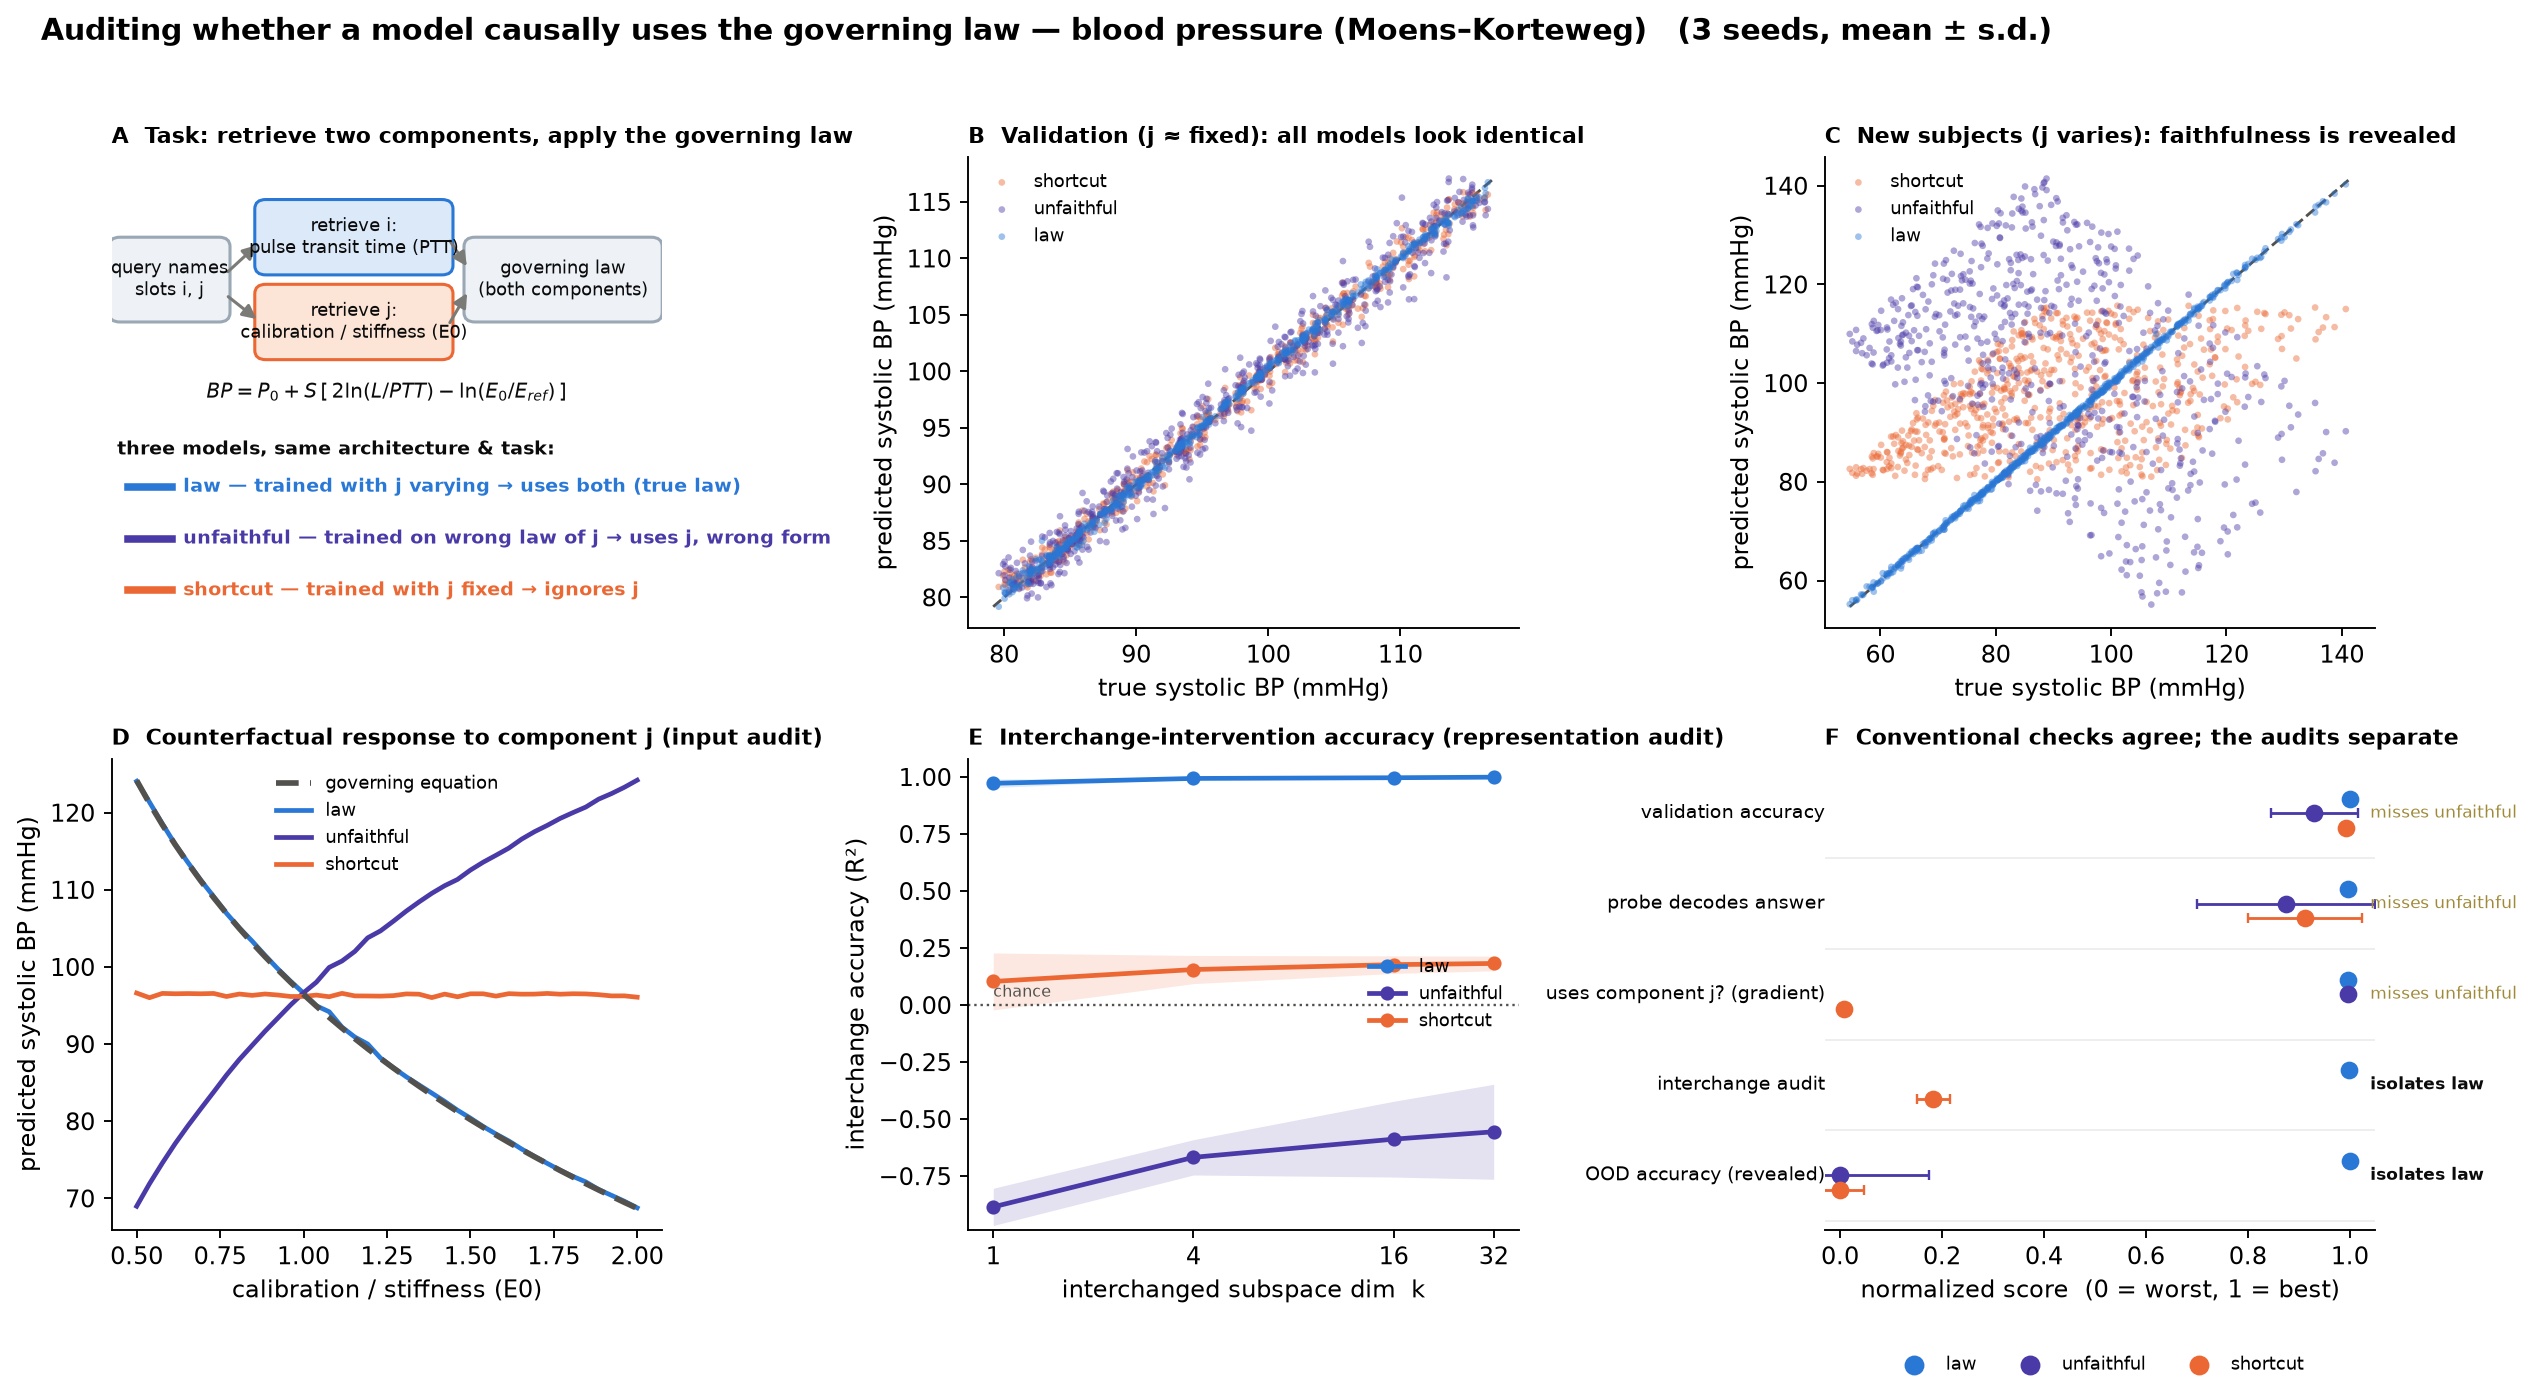
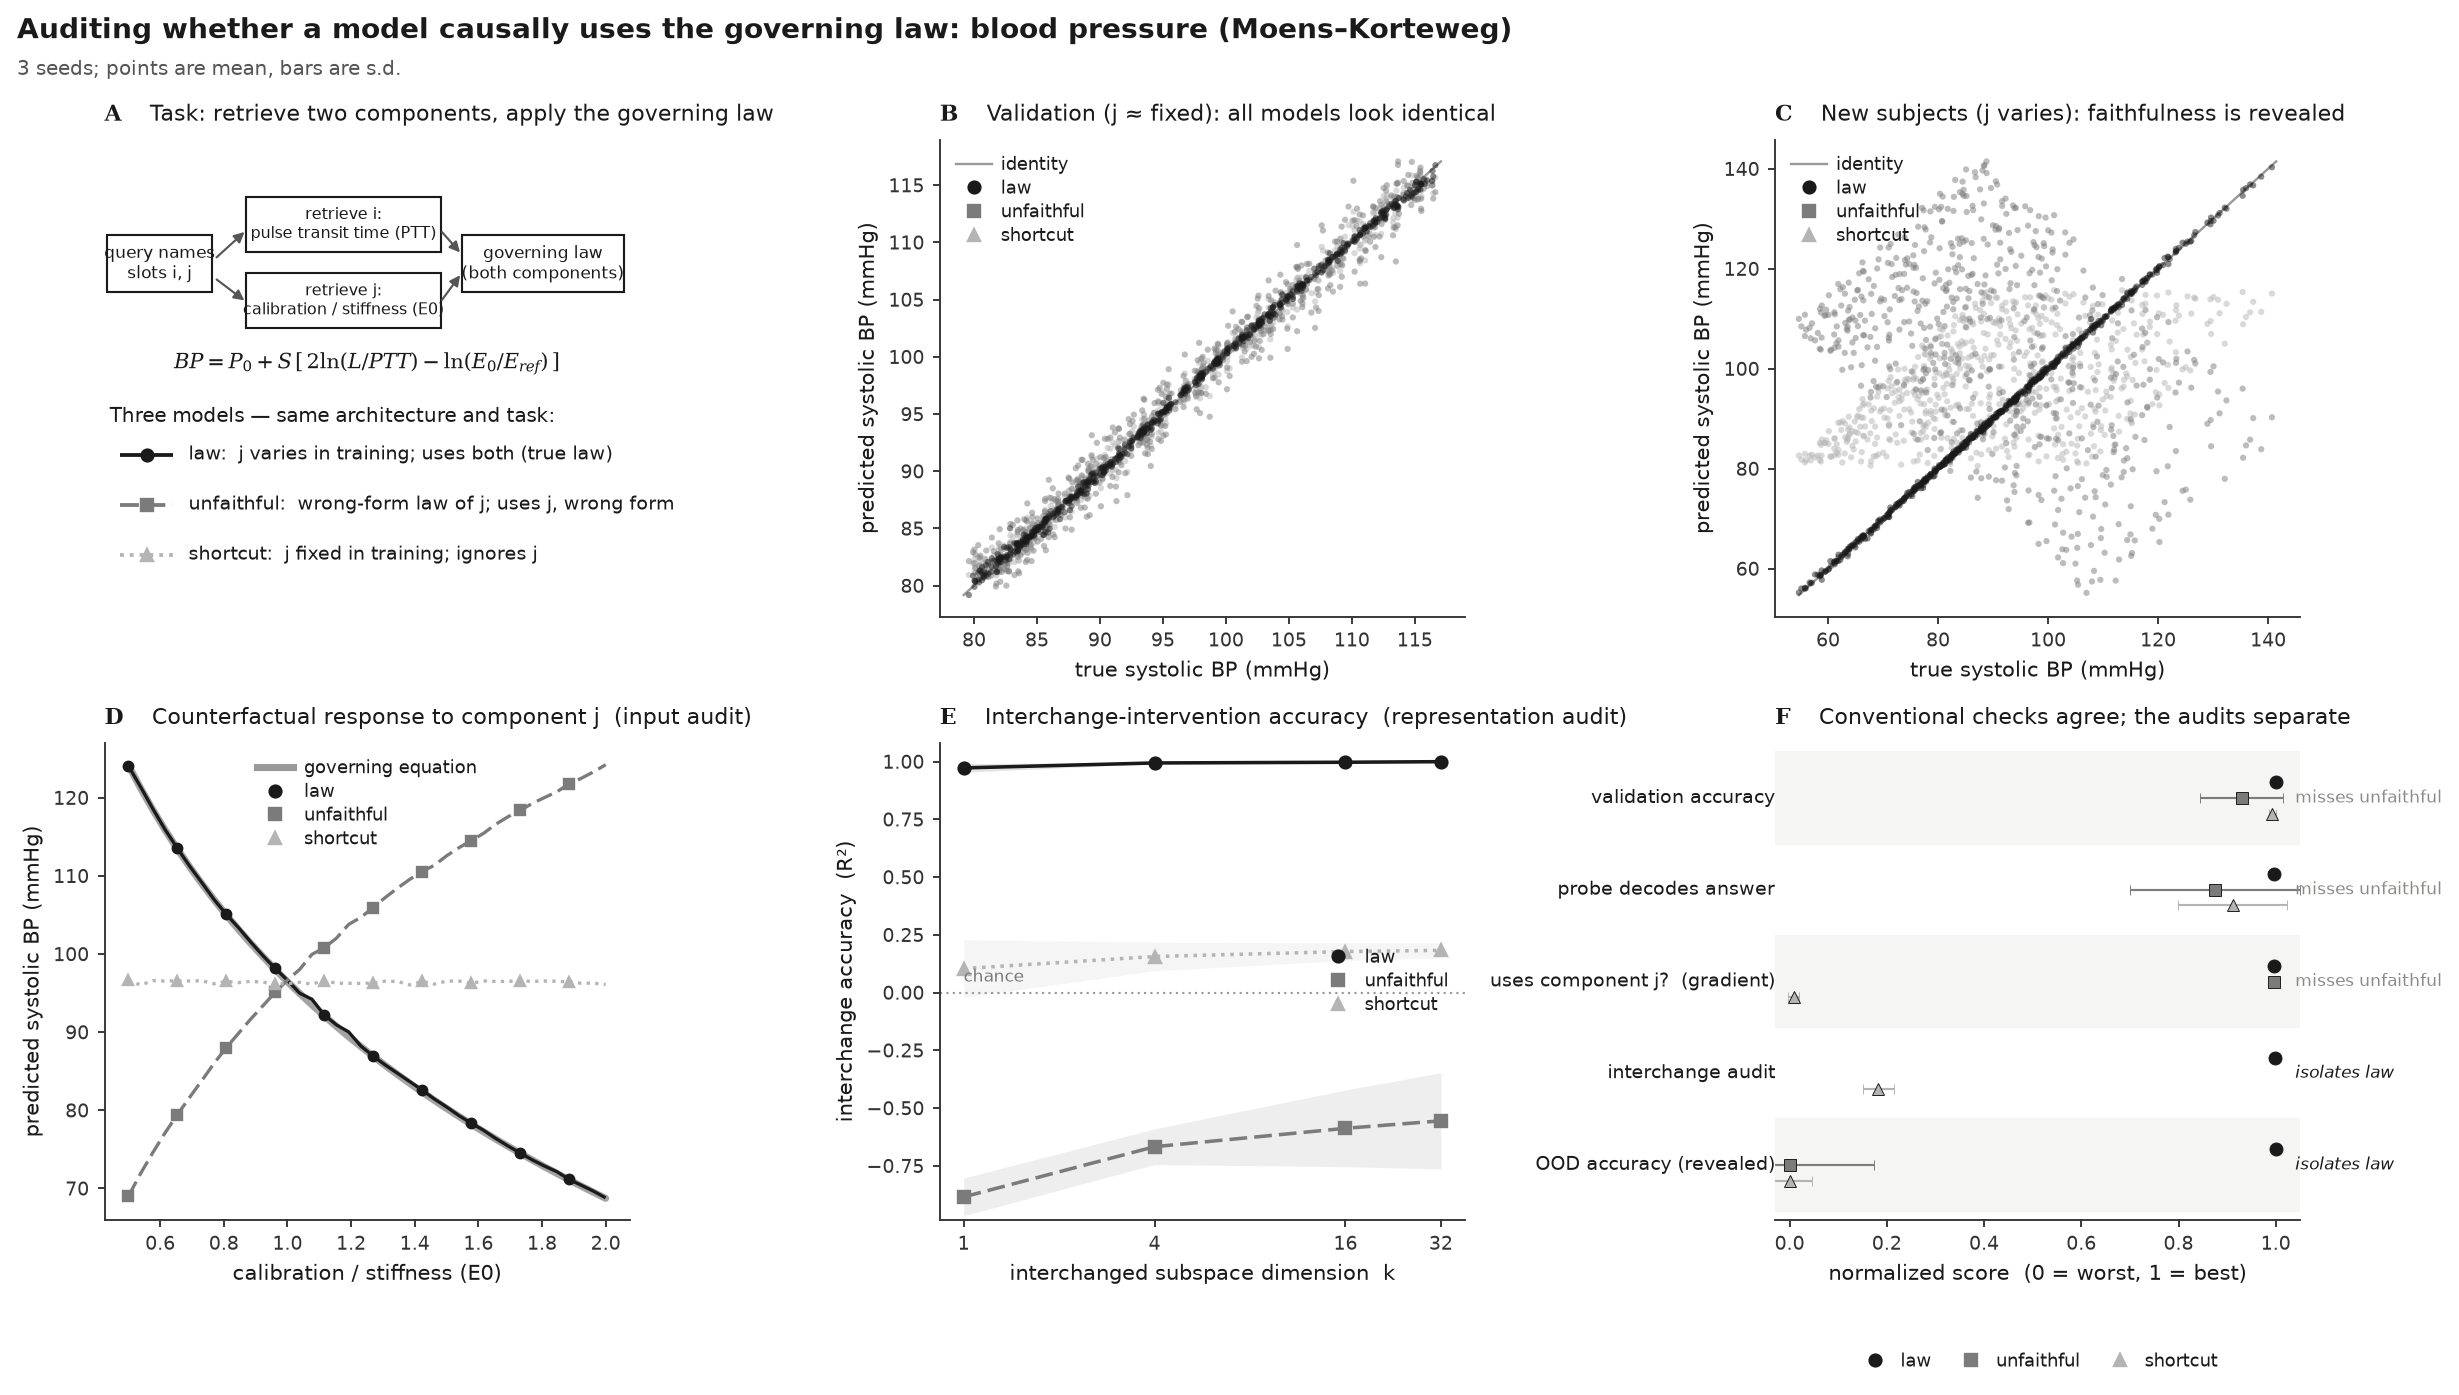
Restyle result figures: monochrome, publication style
Replace colored series with a print-safe grayscale scheme (shade + marker +
line style per model), thin spines, restrained typography, and plain-rectangle
schematic boxes. Add a --from-cache path (payload.json) to re-render the figure
without retraining.

Claude-Session: https://claude.ai/code/session_01BN9qQtBkvZvzZiyuf3DkNm

diff --git a/analysis/causal_mediation_toy.py b/analysis/causal_mediation_toy.py
@@ -57,16 +57,20 @@ matplotlib.use("Agg")
 import matplotlib.pyplot as plt
 import numpy as np
 import torch
-from matplotlib.patches import FancyArrowPatch, FancyBboxPatch
+from matplotlib.lines import Line2D
+from matplotlib.patches import FancyArrowPatch, Rectangle
 from sklearn.linear_model import Ridge
 from sklearn.metrics import r2_score
 from sklearn.preprocessing import StandardScaler
 from torch import nn
 
-LAW_COLOR = "#2a78d6"         # validated categorical slot 1 (blue)
-UNFAITHFUL_COLOR = "#4a3aa7"  # validated categorical slot 5 (violet)
-SHORTCUT_COLOR = "#eb6834"    # validated categorical slot 8 (orange)
-ORACLE_COLOR = "#52514e"      # secondary ink for the equation reference
+# Monochrome, print-safe theme: series are separated by shade + marker + line
+# style, not hue.
+INK = "#1a1a1a"
+SHADE = {"law": "#1a1a1a", "unfaithful": "#7b7b7b", "shortcut": "#b4b4b4"}
+MARKER = {"law": "o", "unfaithful": "s", "shortcut": "^"}
+DASH = {"law": (0, ()), "unfaithful": (0, (5, 2)), "shortcut": (0, (1, 1.6))}
+ORACLE_COLOR = "#1a1a1a"      # equation reference (thin)
 
 
 def set_seed(seed: int) -> None:
@@ -431,162 +435,191 @@ def _ms(values) -> dict:
 
 
 # --------------------------------------------------------------------------- #
-# Figure
+# Figure  (monochrome, publication style)
 # --------------------------------------------------------------------------- #
-def _box(ax, x, y, w, h, text, fc, ec, fontsize=7.6):
-    ax.add_patch(FancyBboxPatch((x, y), w, h, boxstyle="round,pad=0.010,rounding_size=0.02",
-                                linewidth=1.3, facecolor=fc, edgecolor=ec))
-    ax.text(x + w / 2, y + h / 2, text, ha="center", va="center", fontsize=fontsize,
-            color="#0b0b0b")
+DESCRIPTIONS = {
+    "law": "j varies in training; uses both (true law)",
+    "unfaithful": "wrong-form law of j; uses j, wrong form",
+    "shortcut": "j fixed in training; ignores j",
+}
+
+
+def _rc():
+    plt.rcParams.update({
+        "font.family": "sans-serif",
+        "font.sans-serif": ["DejaVu Sans"],
+        "mathtext.fontset": "dejavuserif",
+        "font.size": 9.0,
+        "axes.linewidth": 0.8,
+        "axes.edgecolor": "#333333",
+        "axes.labelcolor": INK,
+        "axes.titlesize": 9.5,
+        "text.color": INK,
+        "xtick.color": "#333333", "ytick.color": "#333333",
+        "xtick.direction": "out", "ytick.direction": "out",
+        "xtick.major.width": 0.8, "ytick.major.width": 0.8,
+        "xtick.major.size": 3.0, "ytick.major.size": 3.0,
+        "xtick.labelsize": 8.0, "ytick.labelsize": 8.0,
+        "legend.fontsize": 7.6,
+        "axes.spines.top": False, "axes.spines.right": False,
+    })
+
+
+def _title(ax, letter, text):
+    ax.set_title(rf"$\bf{{{letter}}}$    {text}", loc="left", fontsize=9.4,
+                 color=INK, pad=8)
+
+
+def _rect(ax, x, y, w, h, text, fs=7.7):
+    ax.add_patch(Rectangle((x, y), w, h, facecolor="none", edgecolor=INK, linewidth=0.9))
+    ax.text(x + w / 2, y + h / 2, text, ha="center", va="center", fontsize=fs, color=INK)
 
 
 def _arrow(ax, x0, y0, x1, y1):
-    ax.add_patch(FancyArrowPatch((x0, y0), (x1, y1), arrowstyle="-|>", mutation_scale=12,
-                                 linewidth=1.3, color="#7a7a76", shrinkA=2, shrinkB=2))
+    ax.add_patch(FancyArrowPatch((x0, y0), (x1, y1), arrowstyle="-|>", mutation_scale=9,
+                                 linewidth=0.9, color="#555555", shrinkA=1, shrinkB=1))
 
 
-COLORS = {"law": LAW_COLOR, "unfaithful": UNFAITHFUL_COLOR, "shortcut": SHORTCUT_COLOR}
-DESCRIPTIONS = {
-    "law": "trained with j varying → uses both (true law)",
-    "unfaithful": "trained on wrong law of j → uses j, wrong form",
-    "shortcut": "trained with j fixed → ignores j",
-}
+def _proxy(ax, p, extra=None):
+    handles = []
+    if extra:
+        (lbl, kw) = extra
+        handles.append(Line2D([], [], label=lbl, **kw))
+    for r in p["regimes"]:
+        handles.append(Line2D([], [], color=SHADE[r], marker=MARKER[r], ls="none",
+                              ms=5, label=r))
+    return handles
 
 
 def panel_schematic(ax, p):
     ax.set_xlim(0, 1); ax.set_ylim(0, 1); ax.axis("off")
-    ax.set_title("A  Task: retrieve two components, apply the governing law",
-                 loc="left", fontsize=9.5, fontweight="bold")
-    _box(ax, 0.005, 0.66, 0.20, 0.16, "query names\nslots i, j", "#eef2f7", "#9aa7b4")
-    _box(ax, 0.27, 0.76, 0.34, 0.14, f"retrieve i:\n{p['i_name']}", "#dce9f9", LAW_COLOR)
-    _box(ax, 0.27, 0.58, 0.34, 0.14, f"retrieve j:\n{p['j_name']}", "#fce4d6", SHORTCUT_COLOR)
-    _box(ax, 0.65, 0.66, 0.34, 0.16, "governing law\n(both components)", "#eef2f7", "#9aa7b4")
-    _arrow(ax, 0.205, 0.75, 0.27, 0.82)
-    _arrow(ax, 0.205, 0.71, 0.27, 0.65)
-    _arrow(ax, 0.61, 0.83, 0.65, 0.76)
-    _arrow(ax, 0.61, 0.64, 0.65, 0.72)
-    ax.text(0.5, 0.50, p["equation"], ha="center", va="center", fontsize=8.6, color="#0b0b0b")
-    ax.text(0.01, 0.40, "three models, same architecture & task:", ha="left", va="top",
-            fontsize=8.2, color="#0b0b0b", fontweight="bold")
+    _title(ax, "A", "Task: retrieve two components, apply the governing law")
+    _rect(ax, 0.005, 0.68, 0.20, 0.12, "query names\nslots i, j", fs=7.0)
+    _rect(ax, 0.27, 0.765, 0.37, 0.115, f"retrieve i:\n{p['i_name']}", fs=6.7)
+    _rect(ax, 0.27, 0.605, 0.37, 0.115, f"retrieve j:\n{p['j_name']}", fs=6.7)
+    _rect(ax, 0.68, 0.68, 0.31, 0.12, "governing law\n(both components)", fs=7.0)
+    _arrow(ax, 0.21, 0.75, 0.27, 0.81)
+    _arrow(ax, 0.21, 0.71, 0.27, 0.66)
+    _arrow(ax, 0.64, 0.81, 0.68, 0.76)
+    _arrow(ax, 0.64, 0.66, 0.68, 0.72)
+    ax.text(0.5, 0.53, p["equation"], ha="center", va="center", fontsize=8.8, color=INK)
+    ax.text(0.01, 0.44, "Three models — same architecture and task:", ha="left", va="top",
+            fontsize=8.4, color=INK)
     for idx, r in enumerate(p["regimes"]):
-        y = 0.30 - idx * 0.11
-        ax.plot([0.03, 0.11], [y, y], color=COLORS[r], lw=3.2)
-        ax.text(0.13, y, f"{r} — {DESCRIPTIONS[r]}", va="center", fontsize=8.0,
-                color=COLORS[r], fontweight="bold")
+        y = 0.34 - idx * 0.105
+        ax.plot([0.03, 0.13], [y, y], color=SHADE[r], lw=1.6, ls=DASH[r])
+        ax.plot([0.08], [y], color=SHADE[r], marker=MARKER[r], ms=5)
+        ax.text(0.16, y, f"{r}:  {DESCRIPTIONS[r]}", va="center", fontsize=8.0, color=INK)
 
 
 def panel_scatter(ax, p, key, title, letter):
-    ax.set_title(f"{letter}  {title}", loc="left", fontsize=9.5, fontweight="bold")
+    _title(ax, letter, title)
     true = p["rep"][f"{key}_true"]
     unit = p["unit"]
     allv = list(true)
     for r in p["regimes"]:
         allv += p["rep"]["models"][r][f"{key}_pred"]
     lo, hi = min(allv), max(allv)
-    ax.plot([lo, hi], [lo, hi], "--", color=ORACLE_COLOR, lw=1.2, zorder=1)
+    ax.plot([lo, hi], [lo, hi], color="#999999", lw=1.0, zorder=1)
     for z, r in enumerate(reversed(p["regimes"])):
-        ax.scatter(true, p["rep"]["models"][r][f"{key}_pred"], s=8, color=COLORS[r],
-                   alpha=0.45, edgecolor="none", label=r, zorder=2 + z)
+        ax.scatter(true, p["rep"]["models"][r][f"{key}_pred"], s=7, color=SHADE[r],
+                   alpha=0.5, edgecolor="none", zorder=2 + z)
     ax.set_xlabel(f"true {unit}"); ax.set_ylabel(f"predicted {unit}")
-    ax.legend(loc="upper left", fontsize=7.5, frameon=False)
-    for s in ("top", "right"):
-        ax.spines[s].set_visible(False)
+    ax.legend(handles=_proxy(ax, p, ("identity", dict(color="#999999", lw=1.0))),
+              loc="upper left", frameon=False, handletextpad=0.5, labelspacing=0.3)
 
 
 def panel_sweep(ax, p):
-    ax.set_title("D  Counterfactual response to component j (input audit)",
-                 loc="left", fontsize=9.5, fontweight="bold")
-    x = p["vj_grid"]
-    ax.plot(x, p["rep"]["sweep_equation"], color=ORACLE_COLOR, lw=2.4, ls=(0, (4, 2)),
-            label="governing equation", zorder=5)
+    _title(ax, "D", "Counterfactual response to component j  (input audit)")
+    x = np.asarray(p["vj_grid"])
+    ax.plot(x, p["rep"]["sweep_equation"], color="#999999", lw=3.0, alpha=0.9,
+            solid_capstyle="round", zorder=1)
+    mk = max(1, len(x) // 9)
     for r in p["regimes"]:
-        ax.plot(x, p["rep"]["models"][r]["sweep_pred"], color=COLORS[r], lw=2, label=r)
+        ax.plot(x, p["rep"]["models"][r]["sweep_pred"], color=SHADE[r], lw=1.4,
+                ls=DASH[r], marker=MARKER[r], markevery=mk, ms=4, zorder=3)
     ax.set_xlabel(p["j_name"]); ax.set_ylabel(f"predicted {p['unit']}")
-    ax.legend(loc="best", fontsize=7.5, frameon=False)
-    for s in ("top", "right"):
-        ax.spines[s].set_visible(False)
+    ax.legend(handles=_proxy(ax, p, ("governing equation", dict(color="#999999", lw=3))),
+              loc="best", frameon=False, handletextpad=0.6, labelspacing=0.3)
 
 
 def panel_iia(ax, p):
-    ax.set_title("E  Interchange-intervention accuracy (representation audit)",
-                 loc="left", fontsize=9.5, fontweight="bold")
+    _title(ax, "E", "Interchange-intervention accuracy  (representation audit)")
     x = np.asarray(p["k_grid"], dtype=float)
     for r in p["regimes"]:
-        curves = np.asarray(p["per_seed"][r]["iia_curve"])   # (seeds, k)
+        curves = np.asarray(p["per_seed"][r]["iia_curve"])
         mean, std = curves.mean(0), curves.std(0)
-        ax.plot(x, mean, "-o", color=COLORS[r], lw=2, ms=5, label=r)
-        ax.fill_between(x, mean - std, mean + std, color=COLORS[r], alpha=0.15, lw=0)
-    ax.axhline(0.0, color=ORACLE_COLOR, ls=":", lw=1)
-    ax.text(x[0], 0.02, "chance", fontsize=6.8, color=ORACLE_COLOR, va="bottom")
+        ax.fill_between(x, mean - std, mean + std, color=SHADE[r], alpha=0.12, lw=0)
+        ax.plot(x, mean, color=SHADE[r], lw=1.5, ls=DASH[r], marker=MARKER[r], ms=5)
+    ax.axhline(0.0, color="#999999", ls=(0, (1, 2)), lw=0.9)
+    ax.text(x[0], 0.03, "chance", fontsize=7.0, color="#777777", va="bottom")
     ax.set_xscale("log", base=2)
     ax.set_xticks(x); ax.set_xticklabels([int(k) for k in x])
     lo = min(-0.15, min(np.asarray(p["per_seed"][r]["iia_curve"]).mean(0).min()
                         for r in p["regimes"]) - 0.1)
     ax.set_ylim(lo, 1.08)
-    ax.set_xlabel("interchanged subspace dim  k"); ax.set_ylabel("interchange accuracy (R²)")
-    ax.legend(loc="center right", fontsize=7.5, frameon=False)
-    for s in ("top", "right"):
-        ax.spines[s].set_visible(False)
+    ax.set_xlabel("interchanged subspace dimension  k")
+    ax.set_ylabel("interchange accuracy  (R²)")
+    ax.legend(handles=_proxy(ax, p), loc="center right", frameon=False,
+              handletextpad=0.5, labelspacing=0.3)
 
 
 def panel_scorecard(ax, p):
-    ax.set_title("F  Conventional checks agree; the audits separate",
-                 loc="left", fontsize=9.5, fontweight="bold")
+    _title(ax, "F", "Conventional checks agree; the audits separate")
     m = p["metrics"]
     ref = max(m["shortcut"]["ood_mse"]["mean"], 1e-6)
 
     def skill(d):
         return float(np.clip(1 - d["mean"] / ref, 0, 1)), float(d["std"] / ref)
-    # (row label, per-regime (mean, err), family)
-    rows = []
-    rows.append(("validation accuracy",
-                 {r: skill(m[r]["val_indist_mse"]) for r in p["regimes"]}, "conventional"))
-    rows.append(("probe decodes answer",
-                 {r: (m[r]["probe_r2_indist"]["mean"], m[r]["probe_r2_indist"]["std"])
-                  for r in p["regimes"]}, "conventional"))
-    rows.append(("uses component j? (gradient)",
-                 {r: (m[r]["uses_j_score"]["mean"], m[r]["uses_j_score"]["std"])
-                  for r in p["regimes"]}, "conventional"))
-    rows.append(("interchange audit",
-                 {r: (m[r]["interchange_accuracy_peak"]["mean"],
-                      m[r]["interchange_accuracy_peak"]["std"]) for r in p["regimes"]}, "audit"))
-    rows.append(("OOD accuracy (revealed)",
-                 {r: skill(m[r]["ood_mse"]) for r in p["regimes"]}, "audit"))
-
-    offsets = np.linspace(0.16, -0.16, len(p["regimes"]))
+    rows = [
+        ("validation accuracy",
+         {r: skill(m[r]["val_indist_mse"]) for r in p["regimes"]}),
+        ("probe decodes answer",
+         {r: (m[r]["probe_r2_indist"]["mean"], m[r]["probe_r2_indist"]["std"])
+          for r in p["regimes"]}),
+        ("uses component j?  (gradient)",
+         {r: (m[r]["uses_j_score"]["mean"], m[r]["uses_j_score"]["std"])
+          for r in p["regimes"]}),
+        ("interchange audit",
+         {r: (m[r]["interchange_accuracy_peak"]["mean"],
+              m[r]["interchange_accuracy_peak"]["std"]) for r in p["regimes"]}),
+        ("OOD accuracy (revealed)",
+         {r: skill(m[r]["ood_mse"]) for r in p["regimes"]}),
+    ]
+    offsets = np.linspace(0.17, -0.17, len(p["regimes"]))
     ys = np.arange(len(rows))[::-1]
-    for y, (lbl, vals, kind) in zip(ys, rows):
-        means = [vals[r][0] for r in p["regimes"]]
+    for i, (y, (lbl, vals)) in enumerate(zip(ys, rows)):
+        if i % 2 == 0:
+            ax.axhspan(y - 0.5, y + 0.5, color="#f5f5f4", zorder=0)
         for off, r in zip(offsets, p["regimes"]):
             mean, err = vals[r]
-            ax.errorbar(mean, y + off, xerr=err, fmt="o", ms=6.5, color=COLORS[r],
-                        ecolor=COLORS[r], elinewidth=1.2, capsize=2, zorder=3)
+            ax.errorbar(mean, y + off, xerr=err, fmt=MARKER[r], ms=5.5, color=SHADE[r],
+                        ecolor=SHADE[r], elinewidth=0.9, capsize=2, mfc=SHADE[r],
+                        mec=INK, mew=0.4, zorder=3)
         ax.text(-0.03, y, lbl, ha="right", va="center", fontsize=8.0)
-        # a check "separates" only if it ranks the trustworthy (law) model clearly
-        # above BOTH untrustworthy models.
         others = [vals[r][0] for r in p["regimes"] if r != "law"]
         sep = (vals["law"][0] - max(others)) > 0.3 if others else False
         ax.text(1.04, y, "isolates law" if sep else "misses unfaithful", ha="left",
-                va="center", fontsize=7.2, fontweight="bold" if sep else "normal",
-                color="#0b0b0b" if sep else "#a08a3a")
-        ax.axhline(y - 0.5, color="#eeeeec", lw=0.8, zorder=0)
+                va="center", fontsize=7.2, style="italic" if sep else "normal",
+                color=INK if sep else "#8a8a86")
     ax.set_xlim(-0.03, 1.05); ax.set_ylim(-0.6, len(rows) - 0.4)
     ax.set_yticks([])
     ax.set_xlabel("normalized score  (0 = worst, 1 = best)")
-    handles = [ax.scatter([], [], s=55, color=COLORS[r], label=r) for r in p["regimes"]]
-    ax.legend(handles=handles, loc="lower center", ncol=len(p["regimes"]), fontsize=7.5,
-              frameon=False, bbox_to_anchor=(0.5, -0.34))
-    for s in ("top", "right", "left"):
-        ax.spines[s].set_visible(False)
+    ax.spines["left"].set_visible(False)
+    ax.legend(handles=_proxy(ax, p), loc="lower center", ncol=len(p["regimes"]),
+              frameon=False, bbox_to_anchor=(0.5, -0.35), handletextpad=0.4,
+              columnspacing=1.2)
 
 
 def make_figure(p, path):
-    fig, axes = plt.subplots(2, 3, figsize=(15, 8.4))
+    _rc()
+    fig, axes = plt.subplots(2, 3, figsize=(14.5, 8.4))
     law_name = "blood pressure (Moens–Korteweg)" if p["law"] == "blood_pressure" else p["law"]
-    fig.suptitle(
-        f"Auditing whether a model causally uses the governing law — {law_name}"
-        f"   ({p['seeds']} seeds, mean ± s.d.)",
-        fontsize=12.5, fontweight="bold", x=0.02, ha="left")
+    fig.text(0.008, 0.975,
+             f"Auditing whether a model causally uses the governing law: {law_name}",
+             fontsize=12, fontweight="bold", ha="left", va="top", color=INK)
+    fig.text(0.008, 0.945, f"{p['seeds']} seeds; points are mean, bars are s.d.",
+             fontsize=8.6, ha="left", va="top", color="#555555")
     panel_schematic(axes[0, 0], p)
     panel_scatter(axes[0, 1], p, "val",
                   "Validation (j ≈ fixed): all models look identical", "B")
@@ -595,7 +628,7 @@ def make_figure(p, path):
     panel_sweep(axes[1, 0], p)
     panel_iia(axes[1, 1], p)
     panel_scorecard(axes[1, 2], p)
-    fig.tight_layout(rect=(0, 0, 1, 0.96))
+    fig.tight_layout(rect=(0, 0, 1, 0.93))
     fig.savefig(path, dpi=170, bbox_inches="tight")
     plt.close(fig)
 
@@ -613,6 +646,8 @@ def main():
     parser.add_argument("--das-steps", type=int, default=400)
     parser.add_argument("--seeds", type=int, default=5)
     parser.add_argument("--quick", action="store_true")
+    parser.add_argument("--from-cache", action="store_true",
+                        help="skip training; re-render the figure from payload.json")
     args = parser.parse_args()
     if args.quick:
         (args.n_train, args.n_eval, args.epochs,
@@ -620,8 +655,14 @@ def main():
     if args.output_dir is None:
         args.output_dir = Path(f"results/causal_mediation_toy/{args.law}")
 
-    payload = run(args)
     args.output_dir.mkdir(parents=True, exist_ok=True)
+    if args.from_cache:
+        with open(args.output_dir / "payload.json", encoding="utf-8") as handle:
+            payload = json.load(handle)
+    else:
+        payload = run(args)
+        with open(args.output_dir / "payload.json", "w", encoding="utf-8") as handle:
+            json.dump(payload, handle)
     with open(args.output_dir / "metrics.json", "w", encoding="utf-8") as handle:
         json.dump({"metrics": payload["metrics"], "config": payload["config"]}, handle, indent=2)
     make_figure(payload, args.output_dir / "causal_mediation.png")